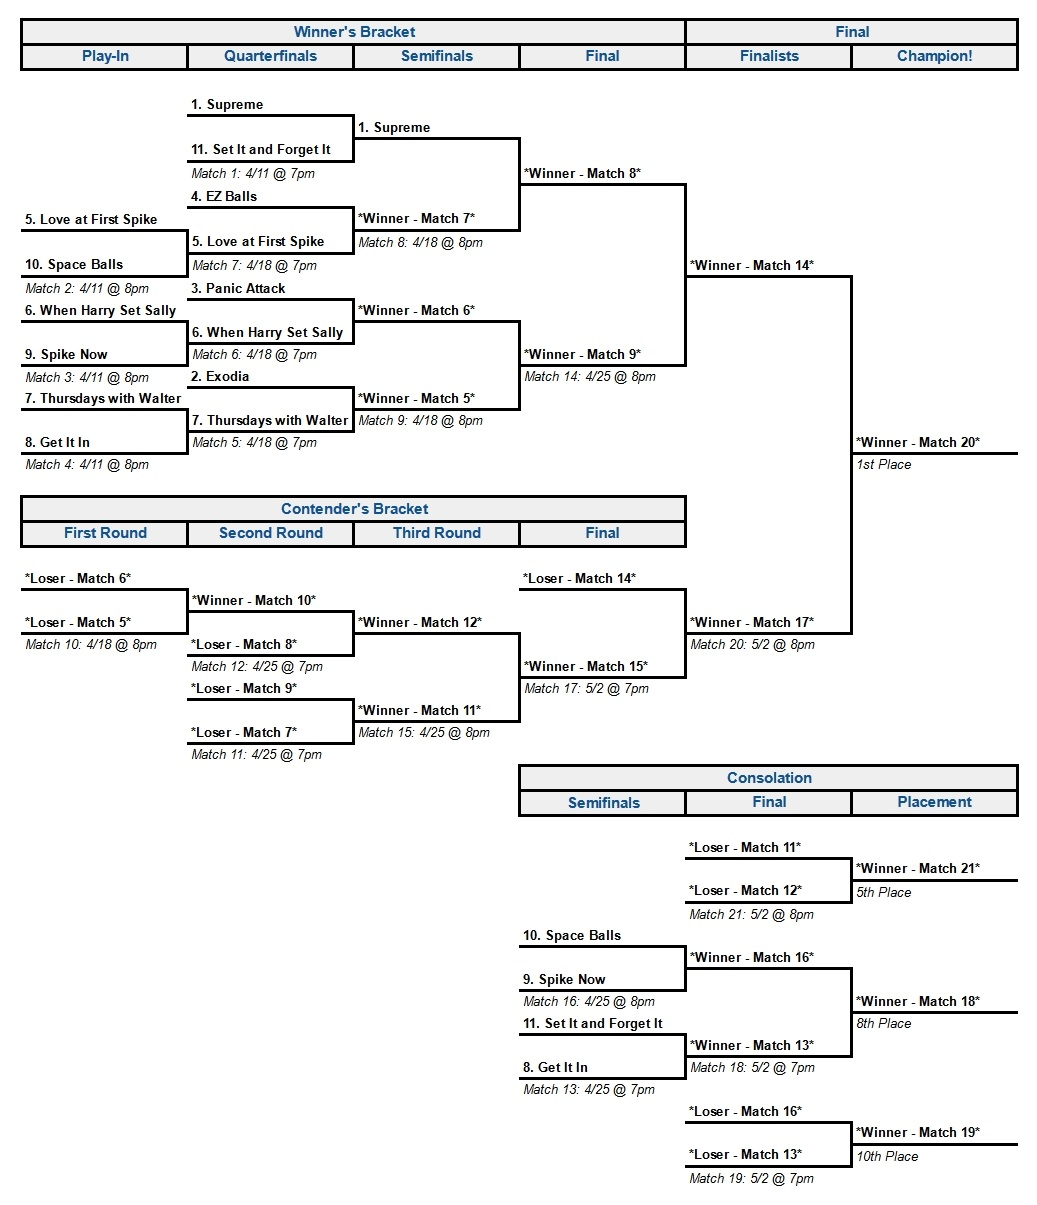
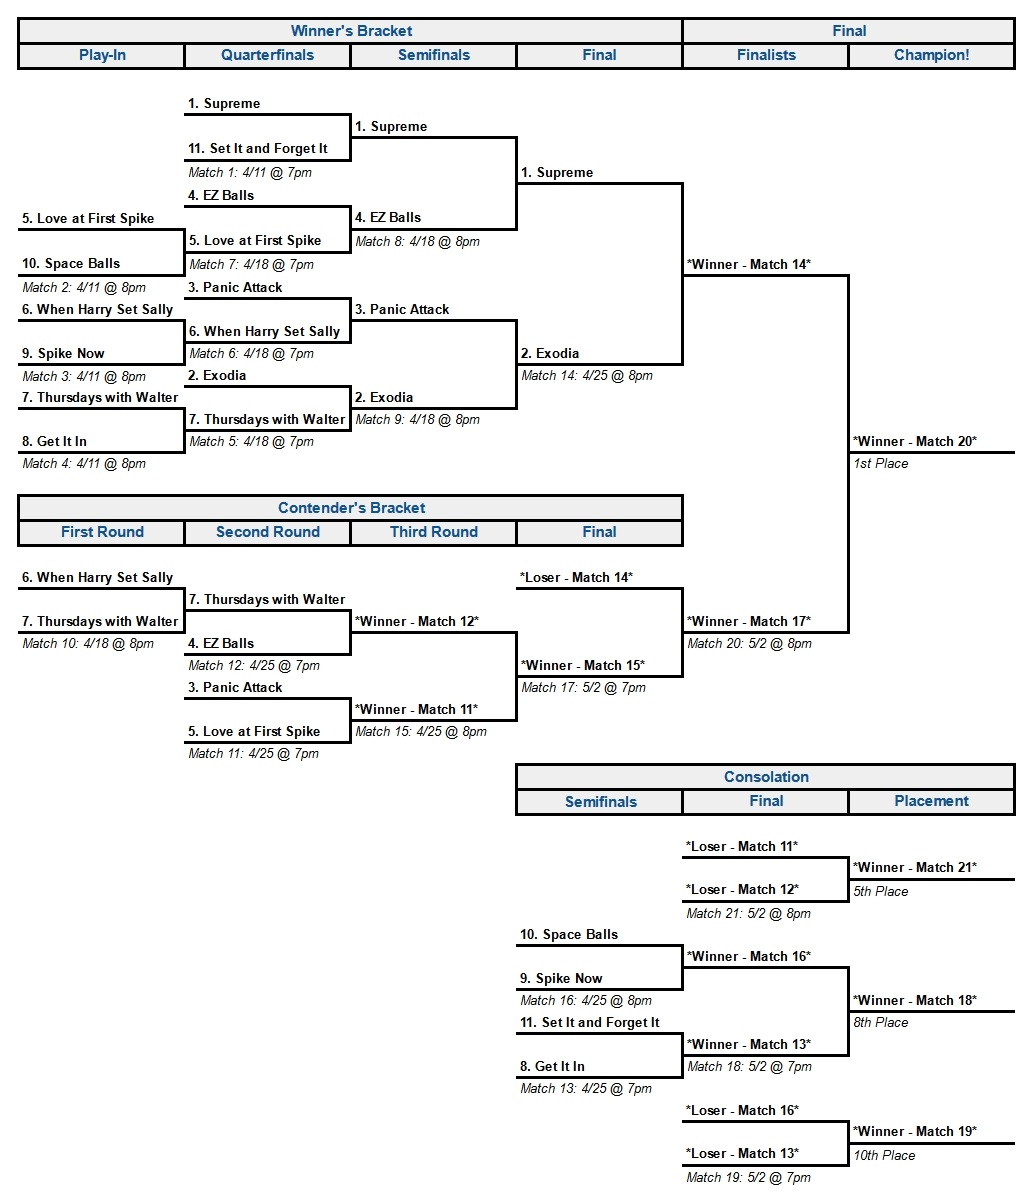
playoff updates

diff --git a/coed/dcvb_win24.html b/coed/dcvb_win24.html
@@ -1219,33 +1219,33 @@
         </tr>
         <tr>
           <td style="width:150px;text-align:left;border-top:solid;border-left:solid;border-right:1px solid black;background-color:GhostWhite;padding-left:3px;">Exodia</td>
-          <td style="width:30px;text-align:center;border-top:solid;border-left:1px solid black;border-right:solid;background-color:GhostWhite;"></td>
+          <td style="width:30px;text-align:center;border-top:solid;border-left:1px solid black;border-right:solid;background-color:GhostWhite;">1</td>
         </tr>
         <tr>
           <td style="width:150px;text-align:left;border-bottom:1px solid black;border-left:solid;border-right:1px solid black;background-color:GhostWhite;padding-left:3px;">Thursdays with Walter</td>
-          <td style="width:30px;text-align:center;border-bottom:1px solid black;border-left:1px solid black;border-right:solid;background-color:GhostWhite;"></td>
+          <td style="width:30px;text-align:center;border-bottom:1px solid black;border-left:1px solid black;border-right:solid;background-color:GhostWhite;">0</td>
         </tr>
         <tr>
           <th colspan="2" style="text-align:center;border-top:solid;border-bottom:solid;border-left:solid;border-right:solid;background-color:GhostWhite;">Court 2 - Match 6</th>
         </tr>
         <tr>
           <td style="width:150px;text-align:left;border-top:solid;border-left:1px solid black;border-right:1px solid black;background-color:GhostWhite;padding-left:3px;">Panic Attack</td>
-          <td style="width:30px;text-align:center;border-top:solid;border-left:1px solid black;border-right:solid;background-color:GhostWhite;"></td>
+          <td style="width:30px;text-align:center;border-top:solid;border-left:1px solid black;border-right:solid;background-color:GhostWhite;">1</td>
         </tr>
         <tr>
           <td style="width:150px;text-align:left;border-bottom:1px solid black;border-left:1px solid black;border-right:1px solid black;background-color:GhostWhite;padding-left:3px;">When Harry Set Sally</td>
-          <td style="width:30px;text-align:center;border-bottom:1px solid black;border-left:1px solid black;border-right:solid;background-color:GhostWhite;"></td>
+          <td style="width:30px;text-align:center;border-bottom:1px solid black;border-left:1px solid black;border-right:solid;background-color:GhostWhite;">0</td>
         </tr>
         <tr>
           <th colspan="2" style="text-align:center;border-top:solid;border-bottom:solid;border-left:solid;border-right:solid;background-color:GhostWhite;">Court 3 - Match 7</th>
         </tr>
         <tr>
           <td style="width:150px;text-align:left;border-top:solid;border-left:1px solid black;background-color:GhostWhite;padding-left:3px;">EZ Balls</td>
-          <td style="width:30px;text-align:center;border-top:solid;border-left:1px solid black;border-right:solid;background-color:GhostWhite;"></td>
+          <td style="width:30px;text-align:center;border-top:solid;border-left:1px solid black;border-right:solid;background-color:GhostWhite;">1</td>
         </tr>
         <tr>
           <td style="width:150px;text-align:left;border-bottom:solid;border-left:1px solid black;background-color:GhostWhite;padding-left:3px;">Love at First Spike</td>
-          <td style="width:30px;text-align:center;border-bottom:solid;border-left:1px solid black;border-right:solid;background-color:GhostWhite;"></td>
+          <td style="width:30px;text-align:center;border-bottom:solid;border-left:1px solid black;border-right:solid;background-color:GhostWhite;">0</td>
         </tr>
         <tr>
           <th rowspan="10" style="text-align:center;border-top:solid;border-bottom:solid;border-left:solid;border-right:solid;background-color:LightGray;padding-left:5px;padding-right:5px;">8 PM</th>
@@ -1255,33 +1255,33 @@
         </tr>
         <tr>
           <td style="width:150px;text-align:left;border-top:solid;border-left:1px solid black;border-right:1px solid black;border-left:solid;background-color:LightGray;padding-left:3px;">Supreme</td>
-          <td style="width:30px;text-align:center;border-top:solid;border-left:1px solid black;border-right:solid;background-color:LightGray;"></td>
+          <td style="width:30px;text-align:center;border-top:solid;border-left:1px solid black;border-right:solid;background-color:LightGray;">1</td>
         </tr>
         <tr>
-          <td style="width:150px;text-align:left;border-left:1px solid black;border-right:1px solid black;border-left:solid;background-color:LightGray;padding-left:3px;">Winner - Match 7</td>
-          <td style="width:30px;text-align:center;border-left:1px solid black;border-right:solid;background-color:LightGray;"></td>
+          <td style="width:150px;text-align:left;border-left:1px solid black;border-right:1px solid black;border-left:solid;background-color:LightGray;padding-left:3px;">EZ Balls</td>
+          <td style="width:30px;text-align:center;border-left:1px solid black;border-right:solid;background-color:LightGray;">0</td>
         </tr>
         <tr>
           <th colspan="2" style="text-align:center;border-top:solid;border-bottom:solid;border-left:solid;border-right:solid;background-color:LightGray;">Court 2 - Match 9</th>
         </tr>
         <tr>
-          <td style="width:150px;text-align:left;border-top:solid;border-left:1px solid black;border-right:1px solid black;background-color:LightGray;padding-left:3px;">Winner - Match 5</td>
-          <td style="width:30px;text-align:center;border-top:solid;border-left:1px solid black;border-right:solid;background-color:LightGray;"></td>
+          <td style="width:150px;text-align:left;border-top:solid;border-left:1px solid black;border-right:1px solid black;background-color:LightGray;padding-left:3px;">Exodia</td>
+          <td style="width:30px;text-align:center;border-top:solid;border-left:1px solid black;border-right:solid;background-color:LightGray;">1</td>
         </tr>
         <tr>
-          <td style="width:150px;text-align:left;border-left:1px solid black;border-right:1px solid black;background-color:LightGray;padding-left:3px;">Winner - Match 6</td>
-          <td style="width:30px;text-align:center;border-left:1px solid black;border-right:solid;background-color:LightGray;"></td>
+          <td style="width:150px;text-align:left;border-left:1px solid black;border-right:1px solid black;background-color:LightGray;padding-left:3px;">Panic Attack</td>
+          <td style="width:30px;text-align:center;border-left:1px solid black;border-right:solid;background-color:LightGray;">0</td>
         </tr>
         <tr>
           <th colspan="2" style="text-align:center;border-top:solid;border-bottom:solid;border-left:solid;border-right:solid;background-color:LightGray;">Court 3 - Match 10</th>
         </tr>
         <tr>
-          <td style="width:150px;text-align:left;border-top:solid;border-left:1px solid black;background-color:LightGray;padding-left:3px;">Loser - Match 6</td>
-          <td style="width:30px;text-align:center;border-top:solid;border-left:1px solid black;border-right:solid;background-color:LightGray;"></td>
+          <td style="width:150px;text-align:left;border-top:solid;border-left:1px solid black;background-color:LightGray;padding-left:3px;">When Harry Set Sally</td>
+          <td style="width:30px;text-align:center;border-top:solid;border-left:1px solid black;border-right:solid;background-color:LightGray;">0</td>
         </tr>
         <tr>
-          <td style="width:150px;text-align:left;border-bottom:solid;border-left:1px solid black;background-color:LightGray;padding-left:3px;">Loser - Match 5</td>
-          <td style="width:30px;text-align:center;border-bottom:solid;border-left:1px solid black;border-right:solid;background-color:LightGray;"></td>
+          <td style="width:150px;text-align:left;border-bottom:solid;border-left:1px solid black;background-color:LightGray;padding-left:3px;">Thursdays with Walter</td>
+          <td style="width:30px;text-align:center;border-bottom:solid;border-left:1px solid black;border-right:solid;background-color:LightGray;">1</td>
         </tr>
       </table>
     </div>
@@ -1298,22 +1298,22 @@
           <th colspan="2" style="text-align:center;border-top:solid;border-bottom:solid;border-left:solid;border-right:solid;background-color:GhostWhite;">Court 1 - Match 11</th>
         </tr>
         <tr>
-          <td style="width:150px;text-align:left;border-top:solid;border-left:solid;border-right:1px solid black;background-color:GhostWhite;padding-left:3px;">Loser - Match 9</td>
+          <td style="width:150px;text-align:left;border-top:solid;border-left:solid;border-right:1px solid black;background-color:GhostWhite;padding-left:3px;">Panic Attack</td>
           <td style="width:30px;text-align:center;border-top:solid;border-left:1px solid black;border-right:solid;background-color:GhostWhite;"></td>
         </tr>
         <tr>
-          <td style="width:150px;text-align:left;border-bottom:1px solid black;border-left:solid;border-right:1px solid black;background-color:GhostWhite;padding-left:3px;">Loser - Match 7</td>
+          <td style="width:150px;text-align:left;border-bottom:1px solid black;border-left:solid;border-right:1px solid black;background-color:GhostWhite;padding-left:3px;">Love at First Spike</td>
           <td style="width:30px;text-align:center;border-bottom:1px solid black;border-left:1px solid black;border-right:solid;background-color:GhostWhite;"></td>
         </tr>
         <tr>
           <th colspan="2" style="text-align:center;border-top:solid;border-bottom:solid;border-left:solid;border-right:solid;background-color:GhostWhite;">Court 2 - Match 12</th>
         </tr>
         <tr>
-          <td style="width:150px;text-align:left;border-top:solid;border-left:1px solid black;border-right:1px solid black;background-color:GhostWhite;padding-left:3px;">Loser - Match 8</td>
+          <td style="width:150px;text-align:left;border-top:solid;border-left:1px solid black;border-right:1px solid black;background-color:GhostWhite;padding-left:3px;">Thursdays with Walter</td>
           <td style="width:30px;text-align:center;border-top:solid;border-left:1px solid black;border-right:solid;background-color:GhostWhite;"></td>
         </tr>
         <tr>
-          <td style="width:150px;text-align:left;border-bottom:1px solid black;border-left:1px solid black;border-right:1px solid black;background-color:GhostWhite;padding-left:3px;">Winner - Match 10</td>
+          <td style="width:150px;text-align:left;border-bottom:1px solid black;border-left:1px solid black;border-right:1px solid black;background-color:GhostWhite;padding-left:3px;">EZ Balls</td>
           <td style="width:30px;text-align:center;border-bottom:1px solid black;border-left:1px solid black;border-right:solid;background-color:GhostWhite;"></td>
         </tr>
         <tr>
@@ -1334,22 +1334,22 @@
           <th colspan="2" style="text-align:center;border-top:solid;border-bottom:solid;border-left:solid;border-right:solid;background-color:LightGray;">Court 1 - Match 14</th>
         </tr>
         <tr>
-          <td style="width:150px;text-align:left;border-top:solid;border-left:1px solid black;border-right:1px solid black;border-left:solid;background-color:LightGray;padding-left:3px;">Winner - Match 8</td>
+          <td style="width:150px;text-align:left;border-top:solid;border-left:1px solid black;border-right:1px solid black;border-left:solid;background-color:LightGray;padding-left:3px;">Supreme</td>
           <td style="width:30px;text-align:center;border-top:solid;border-left:1px solid black;border-right:solid;background-color:LightGray;"></td>
         </tr>
         <tr>
-          <td style="width:150px;text-align:left;border-bottom:1px solid black;border-left:1px solid black;border-right:1px solid black;border-left:solid;background-color:LightGray;padding-left:3px;">Winner - Match 9</td>
+          <td style="width:150px;text-align:left;border-bottom:1px solid black;border-left:1px solid black;border-right:1px solid black;border-left:solid;background-color:LightGray;padding-left:3px;">Exodia</td>
           <td style="width:30px;text-align:center;border-bottom:1px solid black;border-left:1px solid black;border-right:solid;background-color:LightGray;"></td>
         </tr>
         <tr>
           <th colspan="2" style="text-align:center;border-top:solid;border-bottom:solid;border-left:solid;border-right:solid;background-color:LightGray;">Court 2 - Match 15</th>
         </tr>
         <tr>
-          <td style="width:150px;text-align:left;border-top:solid;border-left:1px solid black;border-right:1px solid black;background-color:LightGray;padding-left:3px;">Winner - Match 11</td>
+          <td style="width:150px;text-align:left;border-top:solid;border-left:1px solid black;border-right:1px solid black;background-color:LightGray;padding-left:3px;">Winner - Match 12</td>
           <td style="width:30px;text-align:center;border-top:solid;border-left:1px solid black;border-right:solid;background-color:LightGray;"></td>
         </tr>
         <tr>
-          <td style="width:150px;text-align:left;border-bottom:1px solid black;border-left:1px solid black;border-right:1px solid black;background-color:LightGray;padding-left:3px;">Winner - Match 12</td>
+          <td style="width:150px;text-align:left;border-bottom:1px solid black;border-left:1px solid black;border-right:1px solid black;background-color:LightGray;padding-left:3px;">Winner - Match 11</td>
           <td style="width:30px;text-align:center;border-bottom:1px solid black;border-left:1px solid black;border-right:solid;background-color:LightGray;"></td>
         </tr>
         <tr>
@@ -1445,7 +1445,7 @@
 
     <div id="BR" style="display:none;margin-left:10px;margin-top:10px;margin-right:10px;margin-bottom:10px;">
       <div>
-        <img title="Bracket" style="height:min(1205px,100%);width:min(1037px,100%);" src="../images/dcvb_win24_bracket.png">
+        <img title="Bracket" style="height:min(1203px,100%);width:min(1034px,100%);" src="../images/dcvb_win24_bracket.png">
       </div>
     </div>
 
